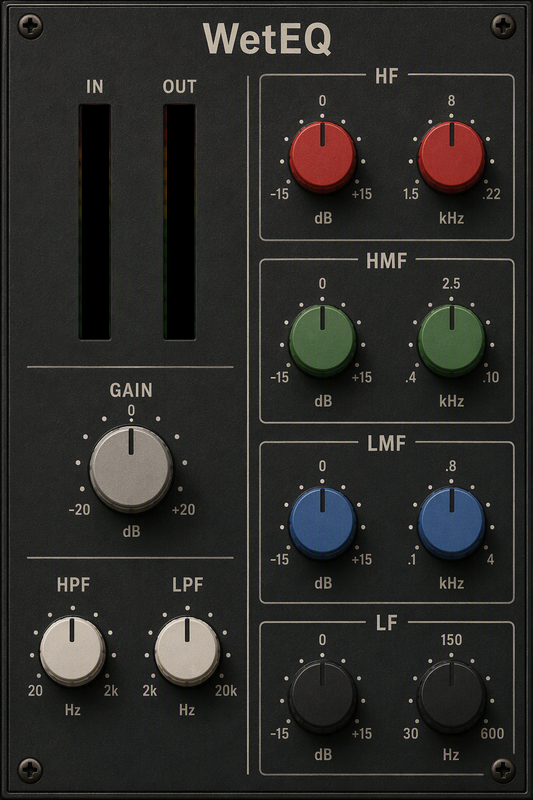
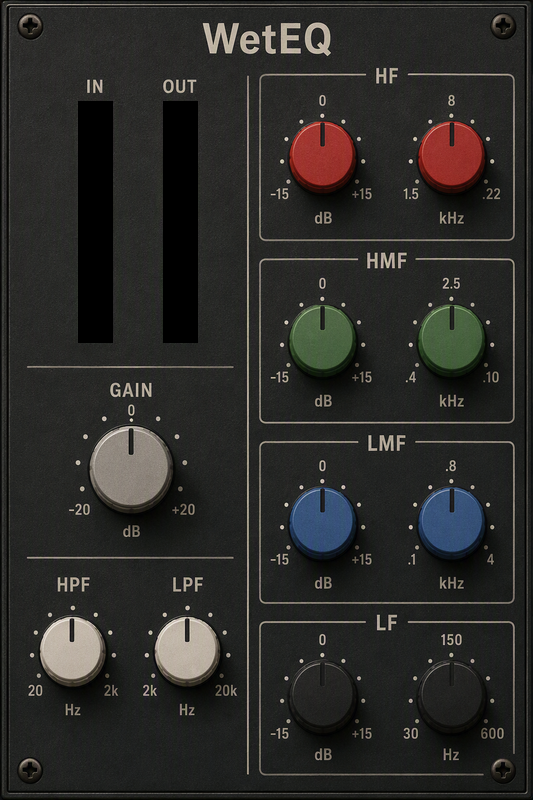
Give the LED meters room to read as twelve LEDs
At 30 px wide with a 1 px gap the segments were 30 x 17.8 slabs separated by a
single pixel, nearly 9:1, so both meters read as one bar changing colour.
WetReverb gets away with a 2 px gap only because its meters are long and thin
(265 x 16), where the same gap is proportionally far more visible.

Gap goes to 5 px at full window width. A narrower stack was tried first and
looked worse: it left black bars down either side and buried the painted bezel.

Also fixes the blackening of the LED windows in the backplate to pad OUTWARDS
rather than inset. Inset by 2 px while the view moved in by 5 left three pixels
of painted, fully-lit LED showing down both sides of each meter as a coloured
fringe. Nothing that sits under a drawn view should ever be blacked inwards.

Changed region(s): [[0.3002, 0.125, 0.3902, 0.4375], [0.1201, 0.125, 0.2101, 0.4375]]

diff --git a/tools/make-assets.py b/tools/make-assets.py
@@ -85,6 +85,16 @@ METERS = {
 }
 METER_SEGMENTS = 12
 
+# The drawn LED stack is deliberately NARROWER than the blacked-out window and
+# has a wide gap. At 30 px wide with a 1 px gap the segments were 30 x 17.8
+# slabs separated by a single pixel - nearly 9:1 - and the meter read as one bar
+# changing colour rather than as twelve LEDs. WetReverb gets away with a small
+# gap because its meters are long and thin (265 x 16), so the gap is
+# proportionally far more visible. Inset and gap bring WetEQ into the same
+# proportion; the art behind is already black, so the inset just shows more of it.
+METER_INSET = 0         # px off each side of the painted window
+METER_GAP = 5           # px of black between segments
+
 
 def lighting_field(knob, blur_frac=LIGHT_BLUR):
     """The lamp, not the detail: low-frequency luminance of the knob."""
@@ -123,10 +133,14 @@ def main():
     # pixel; one row of painted LED peeking past the view's top edge reads as a
     # meter stuck at full scale. Belt and braces: nothing colourful is left
     # underneath. The 2 px inset keeps the painted recess bevel intact.
+    # Pad OUTWARDS, never inwards. The drawn LED stack is inset from this
+    # window (METER_INSET), so anything the blackening fails to reach shows as a
+    # coloured fringe down both sides of the meter - which is exactly what an
+    # inset here produced.
     art = ImageDraw.Draw(panel)
     for (x0, y0, x1, y1) in METERS.values():
-        art.rectangle([round(x0 * scale) + 2, round(y0 * scale) + 2,
-                       round(x1 * scale) - 2, round(y1 * scale) - 2],
+        art.rectangle([round(x0 * scale) - 2, round(y0 * scale) - 2,
+                       round(x1 * scale) + 2, round(y1 * scale) + 2],
                       fill=(0, 0, 0))
 
     panel.save(os.path.join(OUT, 'backplate.png'))
@@ -161,8 +175,9 @@ def main():
               f'origin=({ox},{oy})  {tag}')
 
     for tag, (x0, y0, x1, y1) in METERS.items():
-        ox, oy = int(round(x0 * scale)), int(round(y0 * scale))
-        w, h = int(round((x1 - x0) * scale)), int(round((y1 - y0) * scale))
+        ox, oy = int(round(x0 * scale)) + METER_INSET, int(round(y0 * scale))
+        w = int(round((x1 - x0) * scale)) - 2 * METER_INSET
+        h = int(round((y1 - y0) * scale))
         layout['meters'][tag] = dict(origin=[ox, oy], size=[w, h],
                                      segments=METER_SEGMENTS)
         print(f'meter {tag}: origin=({ox},{oy}) size={w}x{h}')
